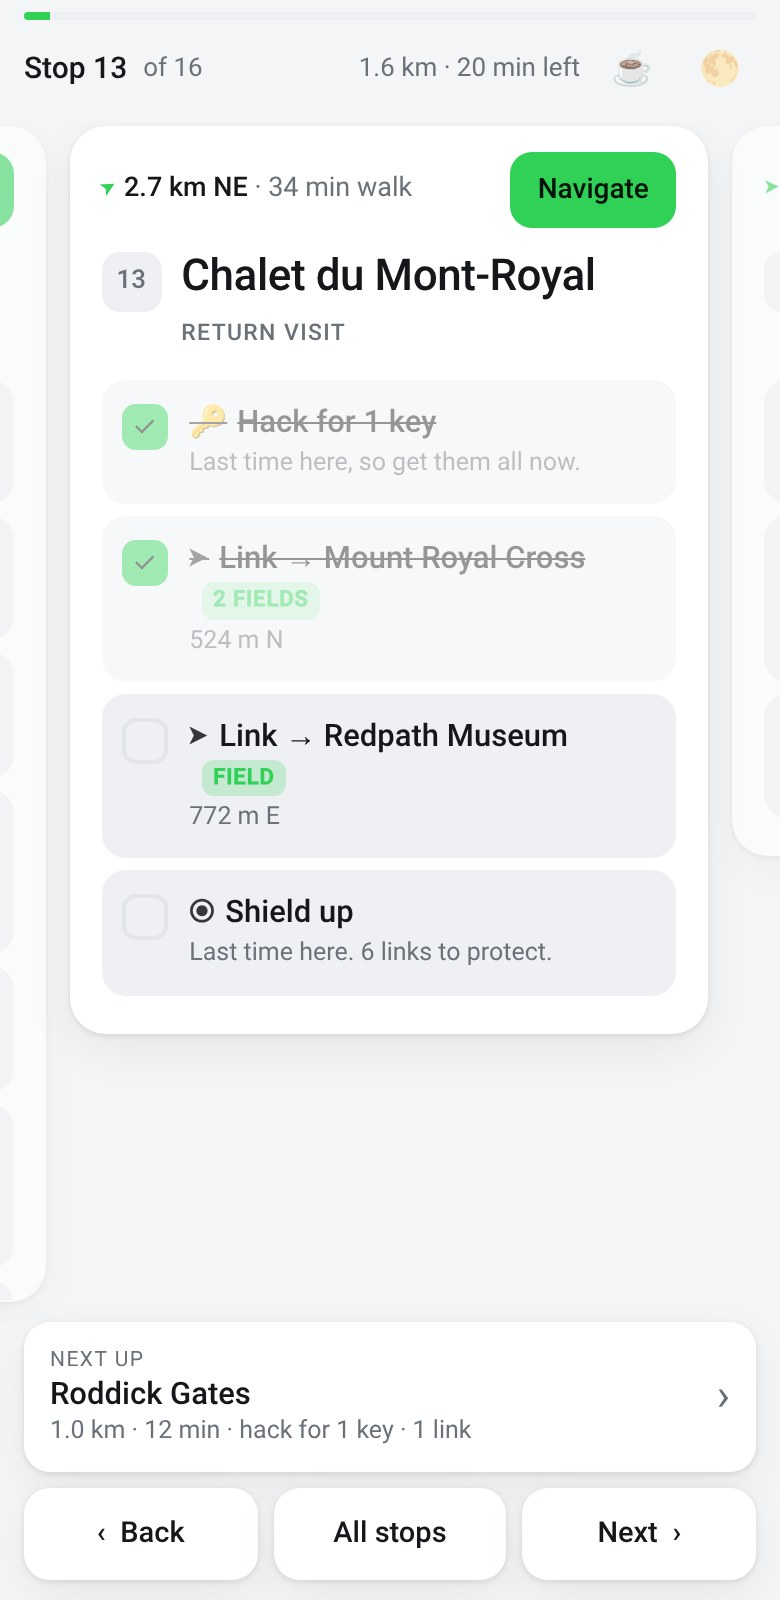
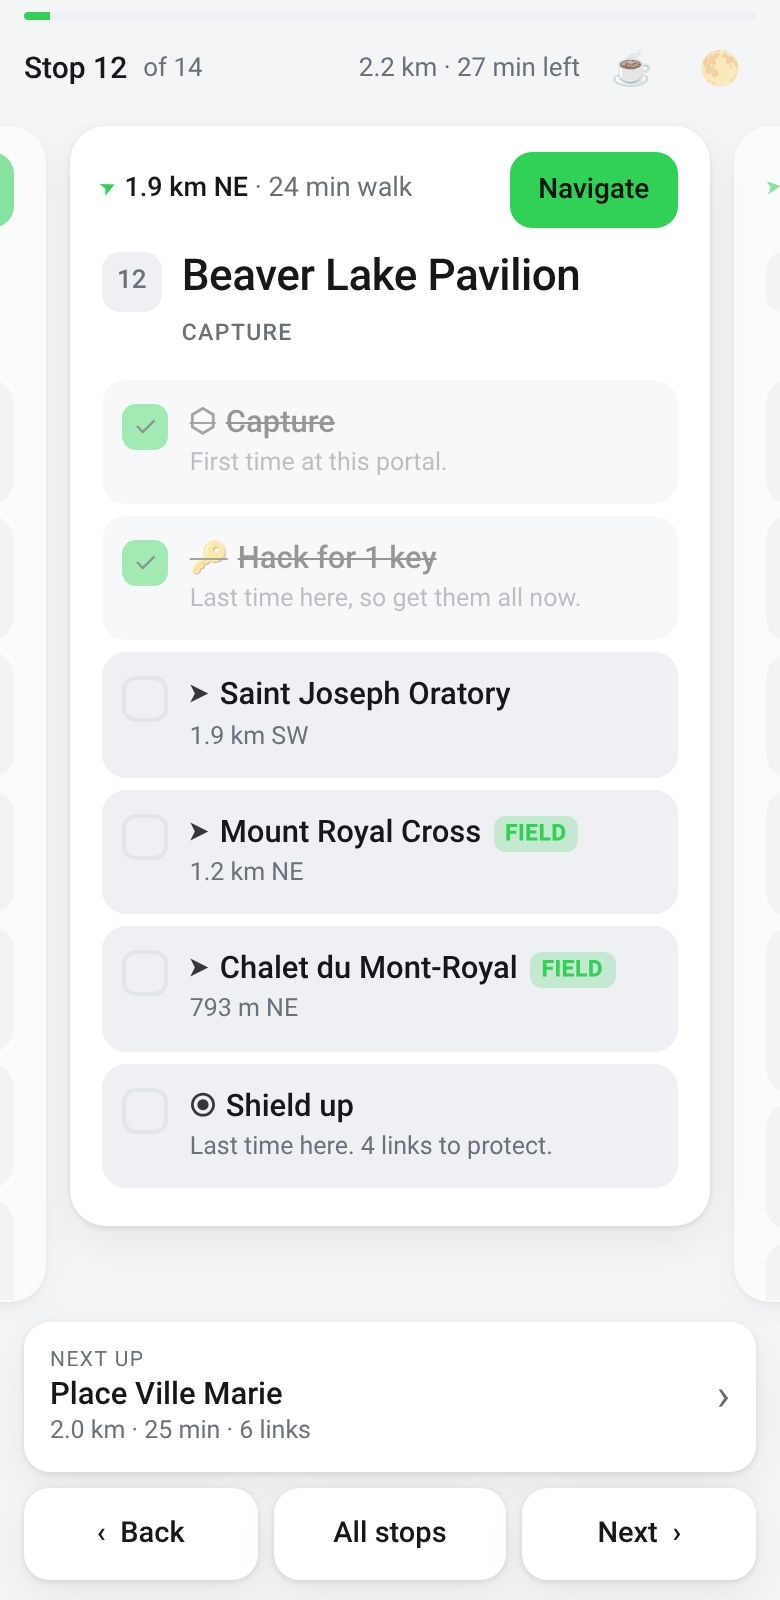
Preview the run on the overview map, and tighten two labels
"Capture and deploy" is just "Capture", and link rows drop the "Link to"
prefix since the arrow glyph beside them already says link. That also stops
the FIELD chips wrapping onto a second line on longer portal names, so every
link row now fits on one.

"Preview the run", under the map in the overview, replays the whole plan:
the walker slides along each leg, then the links at that stop go solid and
their fields fill in behind them, with a caption naming the stop. One step
per leg and per link at 9000/steps ms, clamped to 70-420, so a fifty-stop
plan still lands in about nine seconds and a small one is still watchable.

drawMap() reads an anim object while the preview runs and the live state
otherwise, so a resize or a theme change mid-preview redraws the current
frame instead of resetting it. Redraws are capped at ~30fps because each one
rebuilds the whole SVG; if that ever gets janky the fix is to give the
marker its own element rather than to raise the cap. Closing the overview
stops the preview -- an rAF loop rebuilding an invisible SVG would quietly
drain the battery on the exact device this is for.

The browser test samples the walker mid-preview and fails unless it is seen
off the portal dots at least once. Links lighting up and the caption
advancing both carry on even if the marker never moves, so that assertion is
what actually pins the walking; it catches a frozen marker and one that
teleports without interpolating. UI copy stays deliberately uncovered.

diff --git a/lib/planpage.py b/lib/planpage.py
@@ -167,8 +167,15 @@ footer{flex:0 0 auto; padding:0 12px 10px; background:var(--bg)}
 .sh-top{display:flex; align-items:center; gap:10px; padding:12px 14px 8px}
 .sh-top h2{margin:0; font-size:19px; flex:1}
 .sh-body{flex:1; overflow-y:auto; padding:0 14px 20px}
-.map{width:100%; height:190px; background:var(--card); border-radius:14px; margin-bottom:12px;
+.map{width:100%; height:190px; background:var(--card); border-radius:14px;
      box-shadow:var(--shadow); display:block}
+.mapbar{display:flex; align-items:center; gap:10px; margin:8px 0 14px}
+.play{flex:0 0 auto; padding:9px 14px; border-radius:11px; background:var(--card);
+      box-shadow:var(--shadow); font-size:13.5px; font-weight:650; min-height:40px}
+.play.on{background:var(--accent); color:#06130a}
+.cap{font-size:12.5px; color:var(--dim); overflow:hidden;
+     text-overflow:ellipsis; white-space:nowrap}
+.cap b{color:var(--ink); font-weight:650}
 .tot{display:grid; grid-template-columns:repeat(4,1fr); gap:8px; margin-bottom:14px}
 .tot div{background:var(--card); border-radius:11px; padding:8px 6px; text-align:center;
          box-shadow:var(--shadow)}
@@ -220,6 +227,10 @@ footer{flex:0 0 auto; padding:0 12px 10px; background:var(--bg)}
   </div>
   <div class="sh-body">
     <svg class="map" id="map" preserveAspectRatio="xMidYMid meet"></svg>
+    <div class="mapbar">
+      <button class="play" id="playbtn">&#9654;&ensp;Preview the run</button>
+      <span class="cap" id="mapcap"></span>
+    </div>
     <div class="tot" id="tot"></div>
     <ul class="olist" id="olist"></ul>
     <button class="reset" id="reset">Clear all progress</button>
@@ -296,8 +307,8 @@ function buildAct(act){
   var body = el('div','body');
   var t = el('div','t');
   t.appendChild(el('span','glyph', GLYPH[act.k] || '•'));
-  t.appendChild(document.createTextNode(
-    act.k === 'link' ? 'Link → ' + act.txt : act.txt));
+  // No "Link to" prefix: the arrow glyph on the left already says link
+  t.appendChild(document.createTextNode(act.txt));
   if (act.k === 'link' && act.link !== 'L'){
     t.appendChild(el('span','chip', act.link === 'D' ? act.fields + ' FIELDS' : 'FIELD'));
   }
@@ -512,7 +523,7 @@ function paintSheet(){
 }
 
 function openSheet(){ sheet.hidden = false; paintSheet(); }
-function closeSheet(){ sheet.hidden = true; }
+function closeSheet(){ stopPreview(); sheet.hidden = true; }
 document.getElementById('list').addEventListener('click', openSheet);
 document.getElementById('shclose').addEventListener('click', closeSheet);
 document.getElementById('reset').addEventListener('click', function(){
@@ -522,6 +533,11 @@ document.getElementById('reset').addEventListener('click', function(){
 
 /* ---------- the map ---------- */
 var SVGNS = 'http://www.w3.org/2000/svg';
+/* While the preview runs this holds the frame being drawn: which links are
+   up yet, which stop we have reached, and how far along the leg out of it
+   we are. Null the rest of the time, when the map shows your real progress. */
+var anim = null;
+
 function drawMap(){
   var svg = document.getElementById('map');
   var P = PLAN.portals;
@@ -548,28 +564,39 @@ function drawMap(){
   var accent = getComputedStyle(document.documentElement).getPropertyValue('--accent').trim();
   var dimc = getComputedStyle(document.documentElement).getPropertyValue('--line').trim();
 
+  var shown = anim ? anim.done : done;
+  var here = anim ? anim.at : at;
+
   // the route you walk, under everything else: whole thing faint, walked part lit
-  function route(from, to, stroke, width, op){
+  function route(from, to, stroke, width, op, tail){
     var pts = [];
     for (var k = from; k <= to && k < STOPS.length; k++) pts.push(X(STOPS[k].node) + ',' + Y(STOPS[k].node));
+    if (tail) pts.push(tail[0] + ',' + tail[1]);
     if (pts.length < 2) return;
     add('polyline', {points: pts.join(' '), fill:'none', stroke: stroke,
                      'stroke-width': width, 'stroke-opacity': op,
                      'stroke-linejoin':'round', 'stroke-linecap':'round'});
   }
+  // Where the walker is: at a stop, or partway along the leg out of it
+  var spot = [X(STOPS[Math.min(here, STOPS.length - 1)].node),
+              Y(STOPS[Math.min(here, STOPS.length - 1)].node)];
+  if (anim && anim.t > 0 && here + 1 < STOPS.length){
+    var nx = X(STOPS[here + 1].node), ny = Y(STOPS[here + 1].node);
+    spot = [spot[0] + (nx - spot[0]) * anim.t, spot[1] + (ny - spot[1]) * anim.t];
+  }
   route(0, STOPS.length - 1, dimc, 5, 1);
-  route(0, at, accent, 5, .55);
+  route(0, here, accent, 5, .55, anim && anim.t > 0 ? spot : null);
 
   // fields next so links and dots sit on top
   PLAN.links.forEach(function(l){
-    if (!done.has(l.id)) return;
+    if (!shown.has(l.id)) return;
     l.tri.forEach(function(t){
       add('polygon', {points: t.map(function(v){ return X(v) + ',' + Y(v); }).join(' '),
                       fill: accent, 'fill-opacity': .16, stroke: 'none'});
     });
   });
   PLAN.links.forEach(function(l){
-    var got = done.has(l.id);
+    var got = shown.has(l.id);
     add('line', {x1:X(l.a), y1:Y(l.a), x2:X(l.b), y2:Y(l.b),
                  stroke: got ? accent : dimc, 'stroke-width': got ? 1.6 : 1,
                  'stroke-dasharray': got ? '' : '3 3'});
@@ -578,12 +605,101 @@ function drawMap(){
     add('circle', {cx:X(i), cy:Y(i), r:p.w ? 2.6 : 3.2,
                    fill: p.w ? dimc : accent, 'fill-opacity': p.w ? 1 : .85});
   });
-  if (at < STOPS.length){
-    var here = STOPS[at].node;
-    add('circle', {cx:X(here), cy:Y(here), r:8, fill:'none',
+  if (anim){
+    add('circle', {cx:spot[0], cy:spot[1], r:5, fill:accent});
+    add('circle', {cx:spot[0], cy:spot[1], r:9, fill:'none',
+                   stroke:accent, 'stroke-width':2, 'stroke-opacity':.5});
+  } else if (at < STOPS.length){
+    add('circle', {cx:spot[0], cy:spot[1], r:8, fill:'none',
                    stroke:accent, 'stroke-width':2});
   }
 }
+
+/* ---------- previewing the run ---------- */
+var playbtn = document.getElementById('playbtn'), mapcap = document.getElementById('mapcap');
+var raf = null;
+
+function previewSteps(){
+  // One step per leg walked and per link made, in the order you play them
+  var steps = [];
+  STOPS.forEach(function(s, i){
+    if (i > 0) steps.push({kind:'move', to:i});
+    s.acts.forEach(function(a){
+      if (a.k === 'link') steps.push({kind:'link', to:i, id:a.id});
+    });
+  });
+  return steps;
+}
+
+function caption(text, sub){
+  mapcap.textContent = '';
+  if (!text) return;
+  mapcap.appendChild(el('b', null, text));
+  if (sub) mapcap.appendChild(document.createTextNode(' · ' + sub));
+}
+
+function stopPreview(){
+  if (raf) cancelAnimationFrame(raf);
+  raf = null; anim = null;
+  playbtn.classList.remove('on');
+  playbtn.innerHTML = '&#9654;&ensp;Preview the run';
+  caption('');
+  if (!sheet.hidden) drawMap();
+}
+
+function startPreview(){
+  var steps = previewSteps();
+  if (!steps.length) return;
+  playbtn.classList.add('on');
+  playbtn.innerHTML = '&#9632;&ensp;Stop';
+
+  // Whole thing in about nine seconds however long the plan is, but never
+  // so fast that a step cannot be seen
+  var base = Math.max(70, Math.min(420, 9000 / steps.length));
+  var seen = new Set();
+  anim = {done: seen, at: 0, t: 0};
+  var k = 0, began = null, painted = 0;
+
+  function frame(ts){
+    if (!anim) return;
+    if (began === null) began = ts;
+    var step = steps[k];
+    var span = step.kind === 'move' ? base : base * 0.55;
+    var p = Math.min(1, (ts - began) / span);
+
+    if (step.kind === 'move'){
+      anim.at = step.to - 1; anim.t = p;
+    } else {
+      anim.at = step.to; anim.t = 0;
+      if (p >= 0.4) seen.add(step.id);
+    }
+
+    // Rebuilding the whole map every frame is wasteful; 30 fps is plenty
+    if (ts - painted > 33){ drawMap(); painted = ts; }
+
+    if (p >= 1){
+      if (step.kind === 'move'){ anim.at = step.to; anim.t = 0; }
+      var s = STOPS[Math.min(anim.at, STOPS.length - 1)];
+      caption(s.name, 'stop ' + s.num + ' of ' + STOPS.length);
+      k++; began = ts;
+      if (k >= steps.length){
+        drawMap();
+        caption('Done', PLAN.stats.ap.toLocaleString() + ' AP, ' + PLAN.stats.km + ' km');
+        // Leave the finished map up for a moment before handing it back
+        raf = null;
+        setTimeout(function(){ if (anim) stopPreview(); }, 1400);
+        return;
+      }
+    }
+    raf = requestAnimationFrame(frame);
+  }
+  caption(STOPS[0].name, 'stop 1 of ' + STOPS.length);
+  raf = requestAnimationFrame(frame);
+}
+
+playbtn.addEventListener('click', function(){
+  if (anim) stopPreview(); else startPreview();
+});
 
 /* ---------- screen wake lock ---------- */
 var awake = document.getElementById('awake'), lock = null, want = false;

diff --git a/tests/test_htmlout.py b/tests/test_htmlout.py
@@ -522,7 +522,70 @@ def check_in_a_browser():
             fails.append('the map drew only %d shapes' % sh['drawn'])
         if n and not sh['ok']:
             fails.append('the overview shows no finished stop')
+        # The route preview: it must run, build the plan up as it goes, put the
+        # live map back when it ends, and not keep going behind a closed sheet
+        solid = ("() => [...document.querySelectorAll('#map line')]"
+                 ".filter(l => !l.getAttribute('stroke-dasharray')).length")
+        live = pg.evaluate("() => document.getElementById('map').childElementCount")
+        pg.evaluate("() => document.getElementById('playbtn').click()")
+        pg.wait_for_timeout(1200)
+        if not pg.evaluate("() => document.getElementById('playbtn').classList.contains('on')"):
+            fails.append('the preview did not start')
+        early = pg.evaluate(solid)
+        cap = pg.evaluate("() => document.getElementById('mapcap').innerText")
+        if not cap:
+            fails.append('the preview names no stop while it runs')
+
+        # Sample the walker while it runs. Links going up and the caption
+        # advancing both happen even if the marker never moves between stops,
+        # so this checks the thing they miss: it has to be seen part way along
+        # a leg, not only sitting on portals.
+        walk = pg.evaluate('''() => new Promise(resolve => {
+            const dots = [...document.querySelectorAll('#map circle')]
+                .filter(c => +c.getAttribute('r') < 4)
+                .map(c => [+c.getAttribute('cx'), +c.getAttribute('cy')]);
+            const seen = [];
+            let n = 0;
+            const tick = setInterval(() => {
+                const m = document.querySelector('#map circle[r="5"]');
+                if (m) seen.push([+m.getAttribute('cx'), +m.getAttribute('cy')]);
+                if (++n > 30) { clearInterval(tick); resolve({dots: dots, seen: seen}); }
+            }, 100);
+        })''')
+        if not walk['seen']:
+            fails.append('the preview draws no walker on the map')
+        elif not walk['dots']:
+            fails.append('the map drew no portals to measure the walker against')
+        else:
+            def gap(pt):
+                return min(((pt[0] - d[0]) ** 2 + (pt[1] - d[1]) ** 2) ** 0.5
+                           for d in walk['dots'])
+            if max(gap(pt) for pt in walk['seen']) < 3:
+                fails.append('the walker was never seen between stops in %d samples, '
+                             'so the legs are jumped rather than walked' % len(walk['seen']))
+
+        if pg.evaluate(solid) <= early:
+            fails.append('the preview drew %d links after 1.2s and no more by 4.2s' % early)
+        if pg.evaluate("() => document.getElementById('mapcap').innerText") == cap:
+            fails.append('the preview caption never moved on from %r' % cap)
+
+        for _ in range(30):          # it aims for about nine seconds
+            pg.wait_for_timeout(500)
+            if not pg.evaluate("() => document.getElementById('playbtn').classList.contains('on')"):
+                break
+        else:
+            fails.append('the preview never finished')
+        if pg.evaluate("() => document.getElementById('map').childElementCount") != live:
+            fails.append('the map did not go back to showing real progress')
+        if pg.evaluate("() => document.getElementById('mapcap').innerText"):
+            fails.append('the preview caption outlived the preview')
+
+        pg.evaluate("() => document.getElementById('playbtn').click()")
+        pg.wait_for_timeout(400)
         pg.evaluate("() => document.getElementById('shclose').click()")
+        pg.wait_for_timeout(300)
+        if pg.evaluate("() => document.getElementById('playbtn').classList.contains('on')"):
+            fails.append('closing the overview left the preview running')
 
         # Progress survives being closed and reopened
         pg.reload()

diff --git a/lib/htmlout.py b/lib/htmlout.py
@@ -89,7 +89,7 @@ def _actions(stop):
         return acts
 
     if stop['first_visit']:
-        acts.append({'k': 'capture', 'txt': 'Capture and deploy',
+        acts.append({'k': 'capture', 'txt': 'Capture',
                      'sub': 'First time at this portal.'})
 
     if stop['keys']:

diff --git a/README.md b/README.md
@@ -159,6 +159,10 @@ The rest of it:
 - **All stops** opens the whole run: a map of the route with the fields filling
   in as you complete them, the totals, and every stop with its progress. Tap
   any of them to jump there
+- **Preview the run**, on that map, animates the whole plan in about nine
+  seconds -- the walk between stops, then each link and field as it goes up --
+  so you can see the shape of the evening before you set off. Stop it any time;
+  it hands the map straight back to showing where you actually are
 - the header counts down the distance and time still to travel
 - the cup icon asks the browser to keep the screen awake, so it stops locking
   every thirty seconds while you walk. Not every browser offers this, and the
